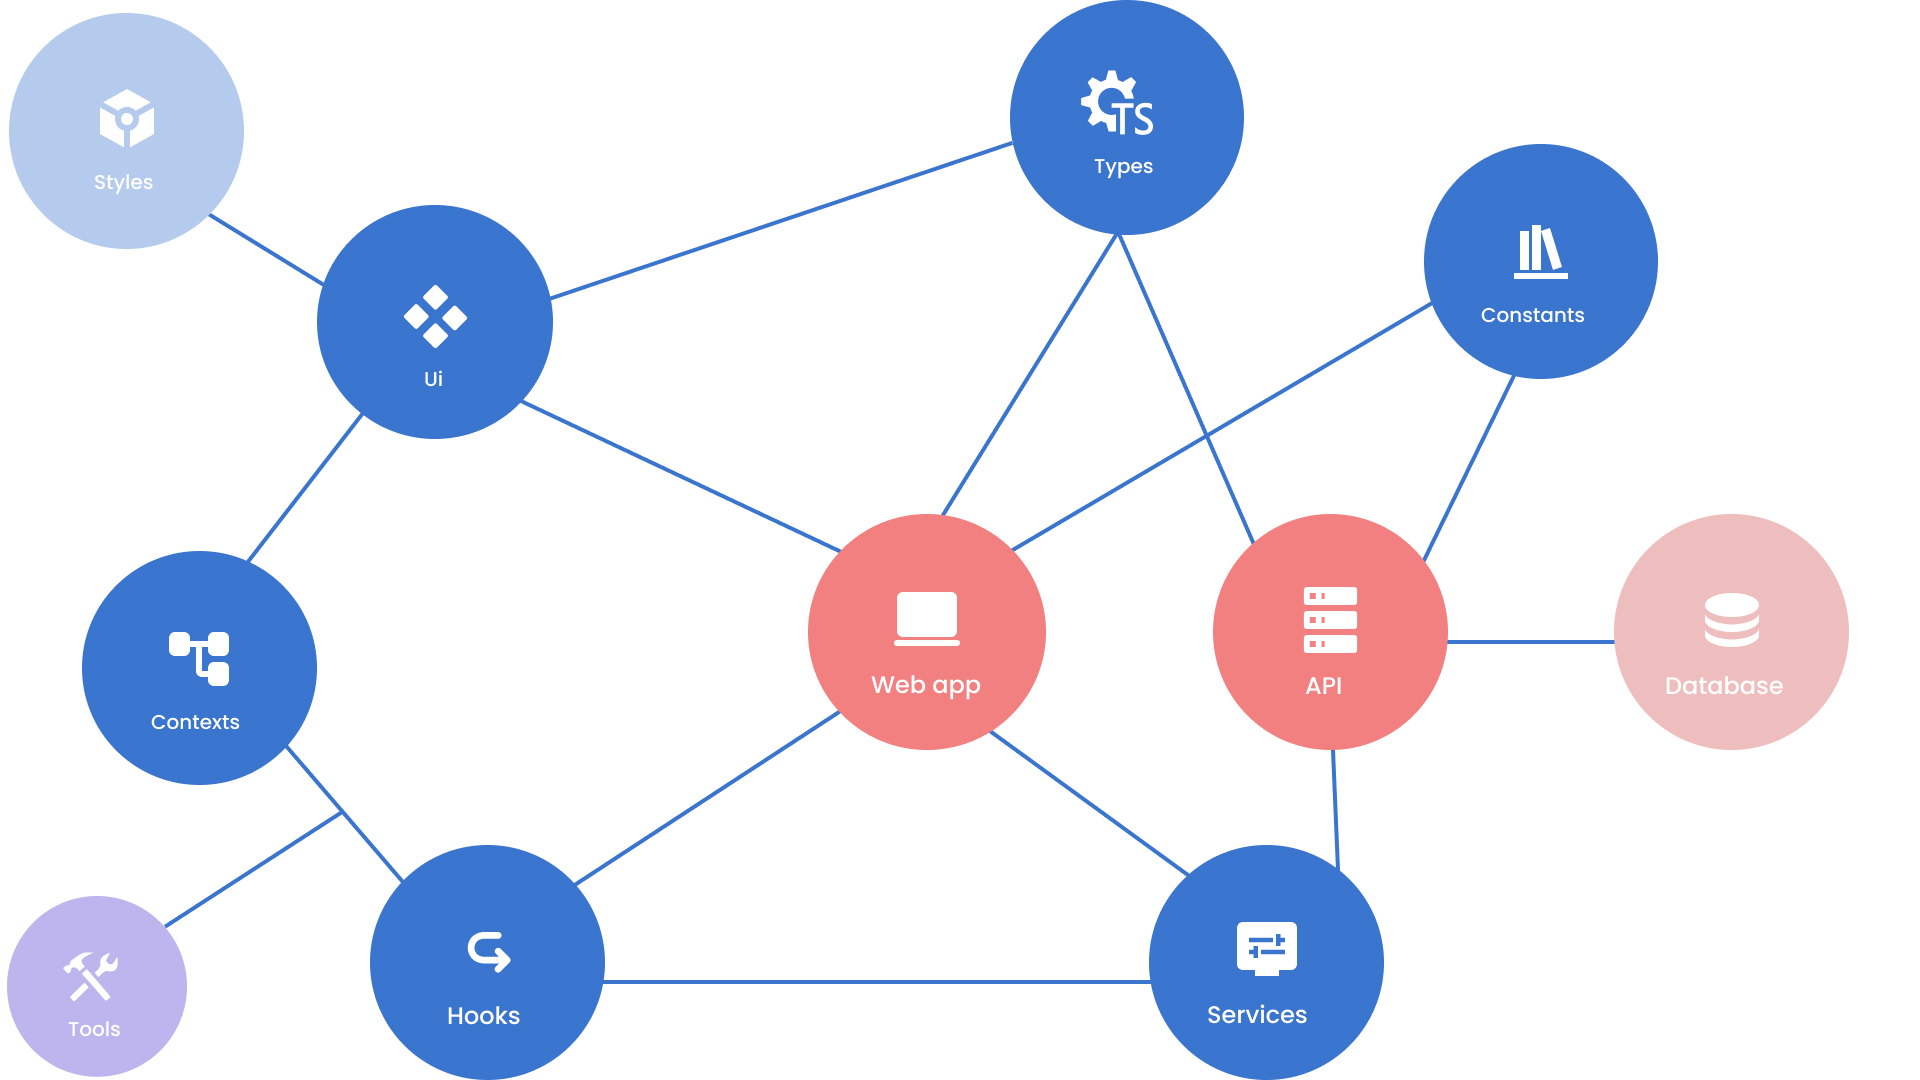
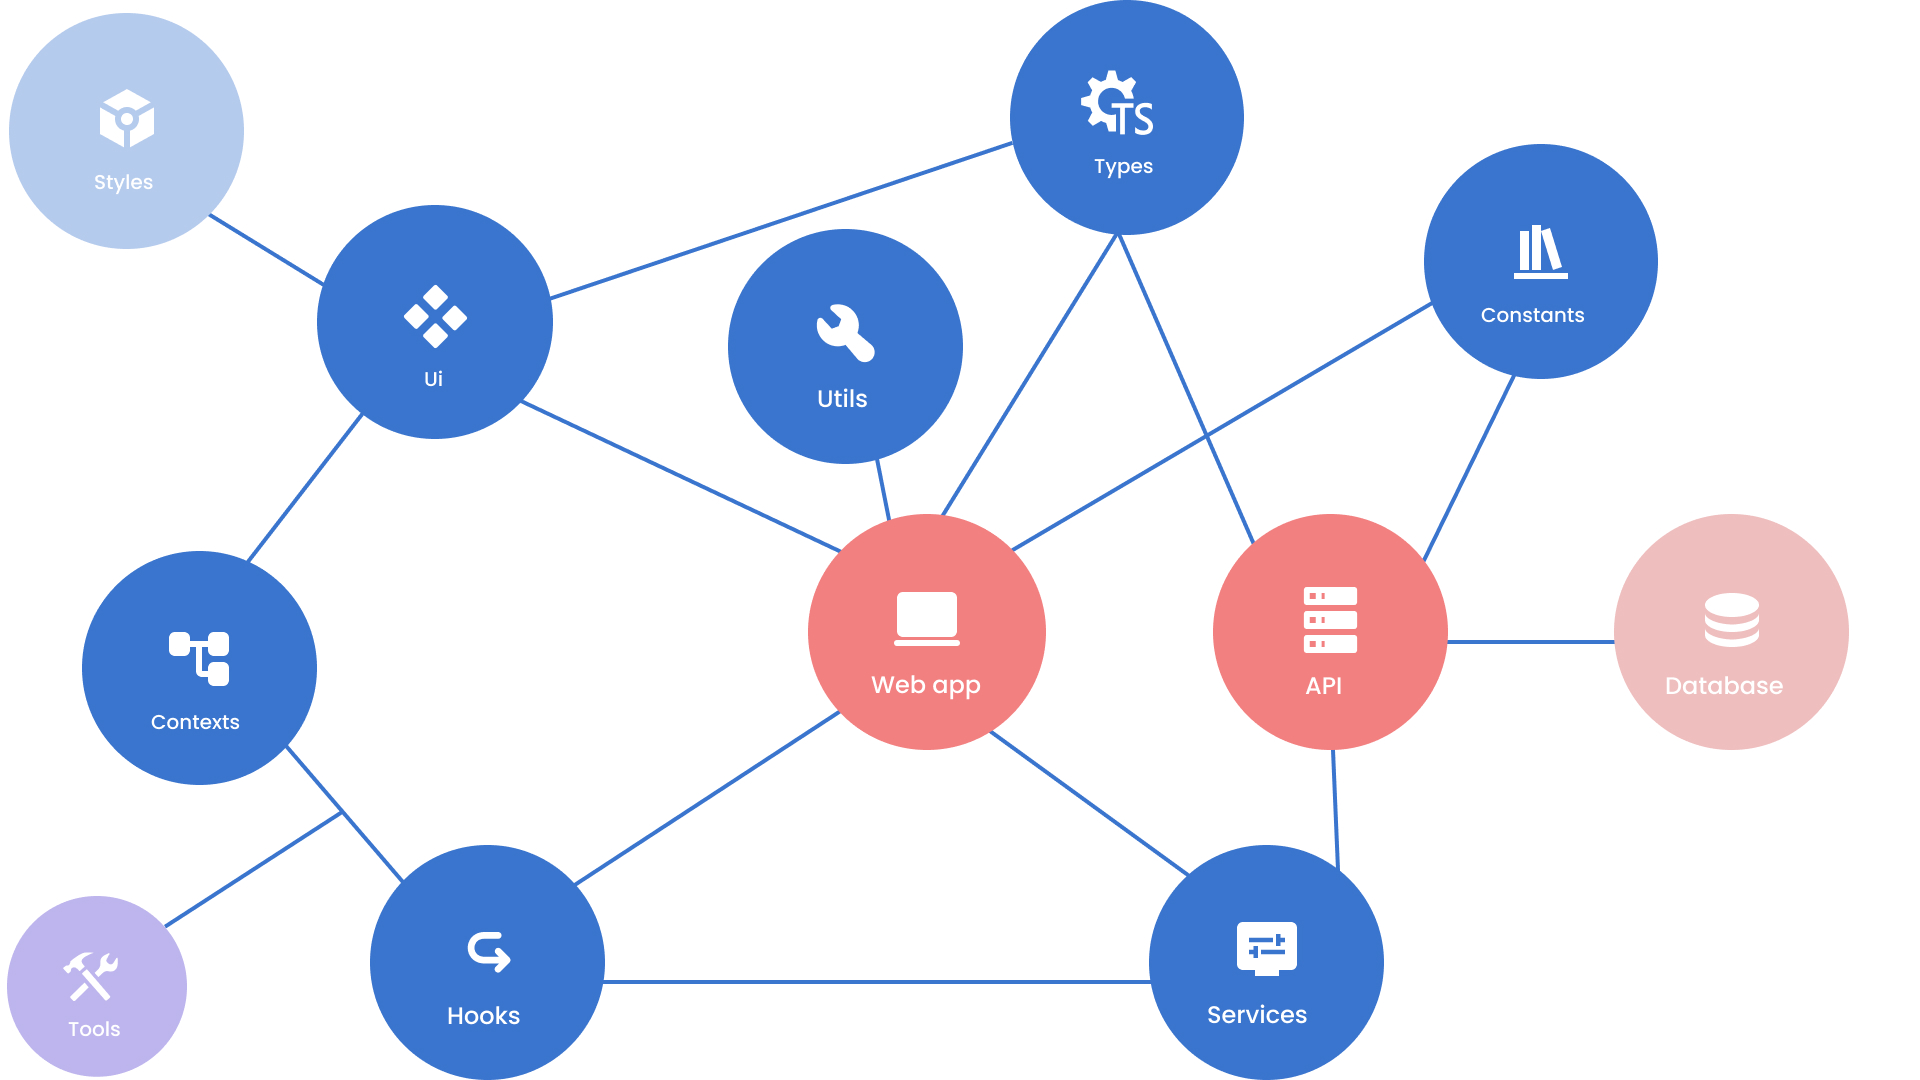
[FEAT] add ui lib (#125)
* [FIX] dependancies

* [FIX] pages

* [FEAT] add lib

* [FIX] update schema

* [FIX] auth util import

* [FIX] dependdancies

* [FIX] lib

* [FEAT] add package

* [FIX] files

* [FIX] files

Changed region(s): [[0.375, 0.2139, 0.5, 0.4583]]

diff --git a/apps/client/src/pages/activity/[slug].tsx b/apps/client/src/pages/activity/[slug].tsx
@@ -5,14 +5,14 @@ import {
   ActivitySchedule,
   Comment,
 } from '@travel-tailor/types'
-import { useEffect, useState } from 'react'
-import { useRouter } from 'next/router'
 import { ActivityService, CommentService } from '@travel-tailor/services'
-
-import { Layout } from '@/layout'
 import { WebCommentForm, WebMapbox } from '@travel-tailor/ui'
 import { useUser } from '@travel-tailor/contexts'
-import { formatDateUtil } from '@/utils/date.util'
+import { formatDateUtil } from '@travel-tailor/utils'
+import { useEffect, useState } from 'react'
+import { useRouter } from 'next/router'
+
+import { Layout } from '@/layout'
 
 const ActivityPage: NextPage = () => {
   const [data, setData] = useState<any>({})

diff --git a/apps/client/src/pages/advertiser/create-activity/[id].tsx b/apps/client/src/pages/advertiser/create-activity/[id].tsx
@@ -2,10 +2,10 @@ import { NextPage } from 'next'
 import { useState } from 'react'
 import { WebCreateActivityForm } from '@travel-tailor/ui'
 import { useProtectedRoute } from '@travel-tailor/hooks'
+import { authUtil } from '@travel-tailor/utils'
+import { Activity } from '@travel-tailor/types'
 
 import { Layout } from '@/layout'
-import { authUtil } from '@/utils/auth.utils'
-import { Activity } from '@travel-tailor/types'
 
 type Tag = { activities: Activity[], deletedAt: Date | null, createdAt: Date, updatedAt: Date, id: string, name: string };
 type Schedule = { opening_at: string, closing_at: string, id: string, deletedAt: Date | null, createdAt: Date, updatedAt: Date };

diff --git a/apps/client/src/pages/advertiser/dashboard/index.tsx b/apps/client/src/pages/advertiser/dashboard/index.tsx
@@ -3,13 +3,13 @@ import Link from 'next/link'
 import { useEffect } from 'react'
 import { ActivityService, AuthService, UserService } from '@travel-tailor/services'
 import { useProtectedRoute } from '@travel-tailor/hooks'
-
-
-import { Layout } from '@/layout'
-import { authUtil } from '@/utils/auth.utils'
+import { authUtil } from '@travel-tailor/utils'
 import { WebActivityCard } from '@travel-tailor/ui'
 import { Activity } from '@travel-tailor/types'
 import { useUser } from '@travel-tailor/contexts'
+
+
+import { Layout } from '@/layout'
 
 const AdvertiserDashboard: NextPage = () => {
   const { user, setUser } = useUser()

diff --git a/apps/client/src/pages/traveler/dashboard/index.tsx b/apps/client/src/pages/traveler/dashboard/index.tsx
@@ -4,10 +4,9 @@ import { AuthService, TravelService, UserService } from '@travel-tailor/services
 import { useProtectedRoute } from '@travel-tailor/hooks'
 import { useUser } from '@travel-tailor/contexts'
 import { Travel } from '@travel-tailor/types'
+import { authUtil, formatDateUtil } from '@travel-tailor/utils'
 
 import { Layout } from '@/layout'
-import { authUtil } from '@/utils/auth.utils'
-import { formatDateUtil } from '@/utils/date.util'
 
 const TravelerDashboard: NextPage = () => {
   const { user, setUser } = useUser()

diff --git a/apps/client/src/pages/traveler/create-taste/[id].tsx b/apps/client/src/pages/traveler/create-taste/[id].tsx
@@ -5,8 +5,7 @@ import { useState } from 'react'
 import { useRouter } from 'next/router'
 import { TasteService, TokenService } from '@travel-tailor/services'
 import { ROUTES } from '@travel-tailor/constants'
-
-import { authUtil } from '@/utils/auth.utils'
+import { authUtil } from '@travel-tailor/utils'
 
 const CreateTastePage: NextPage = () => {
   useProtectedRoute(authUtil);

diff --git a/apps/client/src/pages/advertiser/create-advertiser/[id].tsx b/apps/client/src/pages/advertiser/create-advertiser/[id].tsx
@@ -1,9 +1,9 @@
 import { NextPage } from 'next'
 import { WebCreateAdvertiserForm } from '@travel-tailor/ui'
 import { useProtectedRoute } from '@travel-tailor/hooks'
+import { authUtil } from '@travel-tailor/utils'
 
 import { Layout } from '@/layout'
-import { authUtil } from '@/utils/auth.utils'
 
 const CreateAdvertiser: NextPage = () => {
   useProtectedRoute(authUtil)

diff --git a/apps/client/src/pages/advertiser/update-activity/[id].tsx b/apps/client/src/pages/advertiser/update-activity/[id].tsx
@@ -1,9 +1,9 @@
 import { NextPage } from 'next'
 import { WebUpdateActivityForm } from '@travel-tailor/ui'
 import { useProtectedRoute } from '@travel-tailor/hooks'
+import { authUtil } from '@travel-tailor/utils'
 
 import { Layout } from '@/layout'
-import { authUtil } from '@/utils/auth.utils'
 
 const UpdateActivity: NextPage = () => {
   useProtectedRoute(authUtil)

diff --git a/packages/utils/src/index.ts b/packages/utils/src/index.ts
@@ -1,0 +1,2 @@
+export { formatDateUtil } from './formatDate';
+export { authUtil } from './auth';
